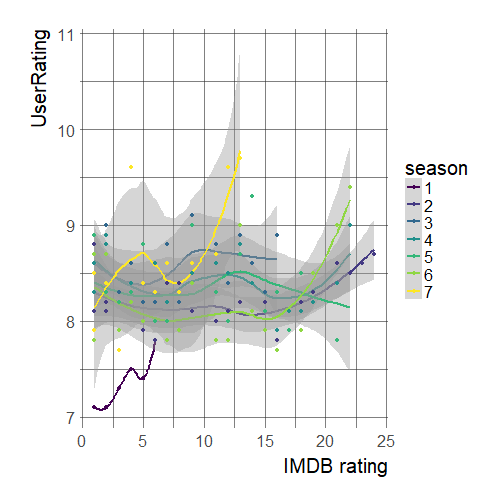
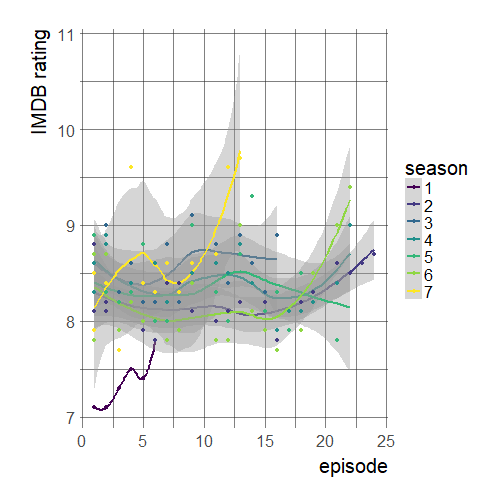
xlab is not ylab

Changed region(s): [[0.5655, 0.8929, 0.7738, 0.9524], [0.0595, 0.119, 0.119, 0.2679]]

diff --git a/_posts/2017-11-05-newborn-serie.md b/_posts/2017-11-05-newborn-serie.md
@@ -73,7 +73,7 @@ ggplot(ratings, aes(episode, UserRating,
                     color = season)) +
   geom_smooth()+
   geom_point()  +
-  xlab("IMDB rating") +
+  ylab("IMDB rating") +
   viridis::scale_color_viridis(discrete = TRUE) +
   theme_ipsum(base_size = 20,
               axis_title_size = 20)
